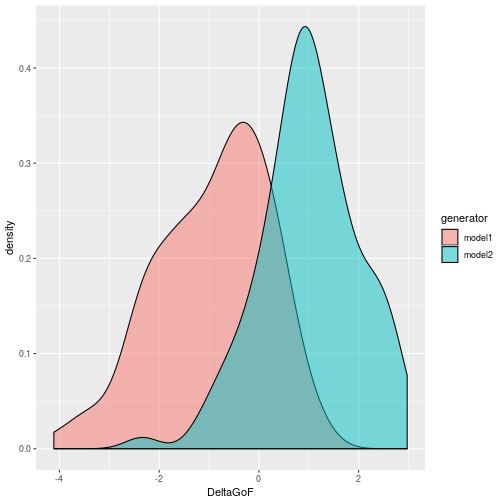
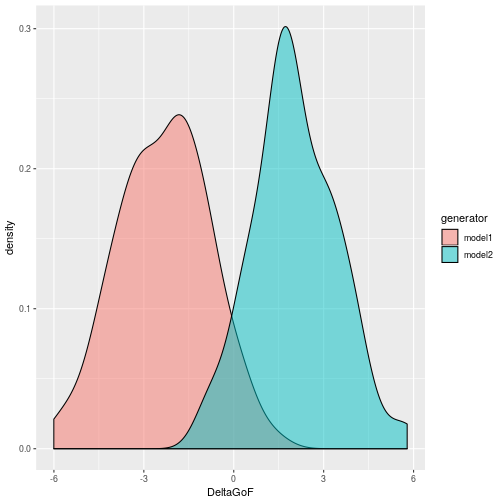
learning to use Rmd

diff --git a/README.md b/README.md
@@ -24,7 +24,7 @@ Suppose we have the following data:
 
 ```r
 x <- seq(from=0, to=1, length.out=100)
-mockdata <- data.frame(x=x, y=x^2 + rnorm(100, 0, 0.5))
+mockdata <- data.frame(x=x, y=x + rnorm(100, 0, 0.5))
 library(ggplot2)
 g <- ggplot(mockdata, aes(x=x, y=y)) + geom_point()
 print(g)
@@ -76,13 +76,13 @@ Here, `args1` and `args2` hold arguments passed to `myfitfun`, while `genargs1` 
 
 ```r
 head(myboot)
-#>   model1_p model2_p rep generator     GoF1     GoF2    DeltaGoF
-#> 1        1       NA   1    model1 27.47036 27.49972 -0.02935368
-#> 2        1       NA   2    model1 24.95514 25.91136 -0.95621473
-#> 3        1       NA   3    model1 22.30481 23.29102 -0.98620087
-#> 4        1       NA   4    model1 21.28250 21.94944 -0.66693605
-#> 5        1       NA   5    model1 35.34166 36.39139 -1.04972890
-#> 6        1       NA   6    model1 22.33365 22.92333 -0.58968065
+#>   model1_p model2_p rep generator     GoF1     GoF2  DeltaGoF
+#> 1        1       NA   1    model1 25.50409 29.66643 -4.162338
+#> 2        1       NA   2    model1 21.92206 25.30344 -3.381374
+#> 3        1       NA   3    model1 26.99881 30.53478 -3.535976
+#> 4        1       NA   4    model1 30.70698 30.35088  0.356103
+#> 5        1       NA   5    model1 26.98884 29.70388 -2.715038
+#> 6        1       NA   6    model1 28.60470 29.86541 -1.260714
 ```
 
 We can easily produce a nice plot of the `DeltaGoF` distributions:
@@ -101,8 +101,8 @@ Since the definition of `DeltaGoF` is `GoF1 - GoF2`, and since we have defined `
 ```r
 emp <- pbcm::empirical.GoF(mockdata, fun1=myfitfun, fun2=myfitfun, args1=list(p=1), args2=list(p=2))
 print(emp)
-#>       GoF1     GoF2 DeltaGoF
-#> 1 28.39399 27.34459 1.049397
+#>       GoF1     GoF2  DeltaGoF
+#> 1 24.58233 28.36655 -3.784218
 ```
 
 This suggests that model 1 is the true generator, since the empirical value of `DeltaGoF` would appear to be closer to that distribution. To get a more quantitative angle on this, we can use e.g. *k* nearest neighbours (*k*-NN) classification to decide the issue:
@@ -111,7 +111,7 @@ This suggests that model 1 is the true generator, since the empirical value of `
 ```r
 pbcm::kNN.classification(df=myboot, DeltaGoF.emp=emp$DeltaGoF, k=10)
 #>    k dist_model1 dist_model2 decision
-#> 1 10    1.760608  0.05267519   model2
+#> 1 10   0.2604175    123.8638   model1
 ```
 
 Comparing the empirical value of `DeltaGoF` to its 10 nearest neighbours in both bootstrap distributions, the distance to the model 1 distribution is smaller, hence model 1 is selected.
@@ -121,11 +121,11 @@ We can even try different values of *k* to see if that has any effect on the dec
 
 ```r
 pbcm::kNN.classification(df=myboot, DeltaGoF.emp=emp$DeltaGoF, k=c(1, 10, 50, 100))
-#>     k  dist_model1  dist_model2 decision
-#> 1   1 1.098331e-03 8.611434e-05   model2
-#> 2  10 1.760608e+00 5.267519e-02   model2
-#> 3  50 6.727387e+01 5.122212e+00   model2
-#> 4 100 5.113761e+02 9.477548e+01   model2
+#>     k  dist_model1 dist_model2 decision
+#> 1   1 1.354383e-04    7.387804   model1
+#> 2  10 2.604175e-01  123.863771   model1
+#> 3  50 3.894636e+01 1150.537659   model1
+#> 4 100 4.344938e+02 3586.392521   model1
 ```
 
 
